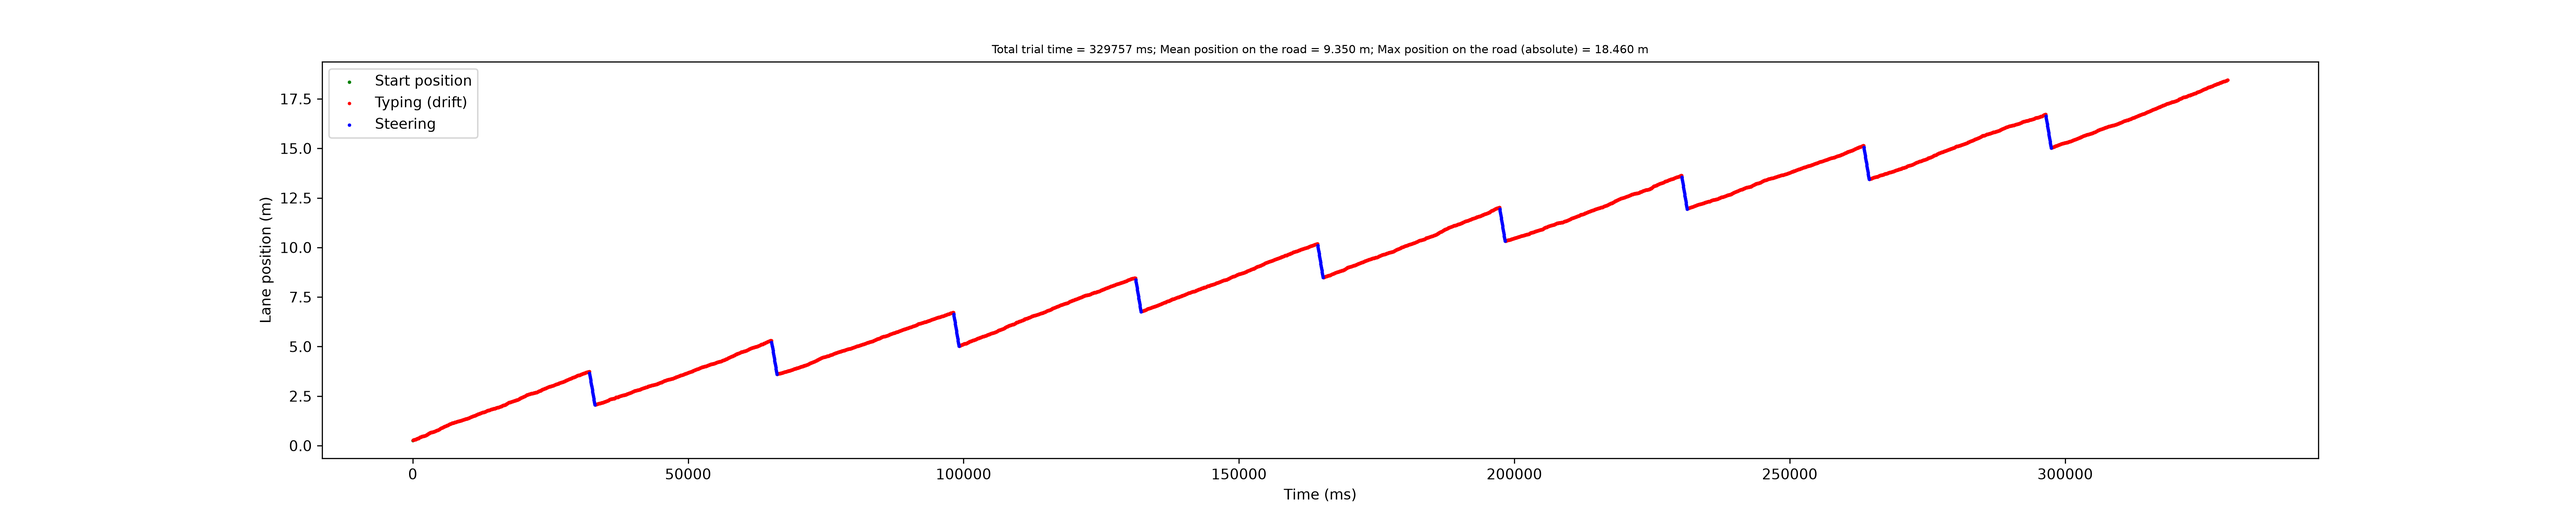
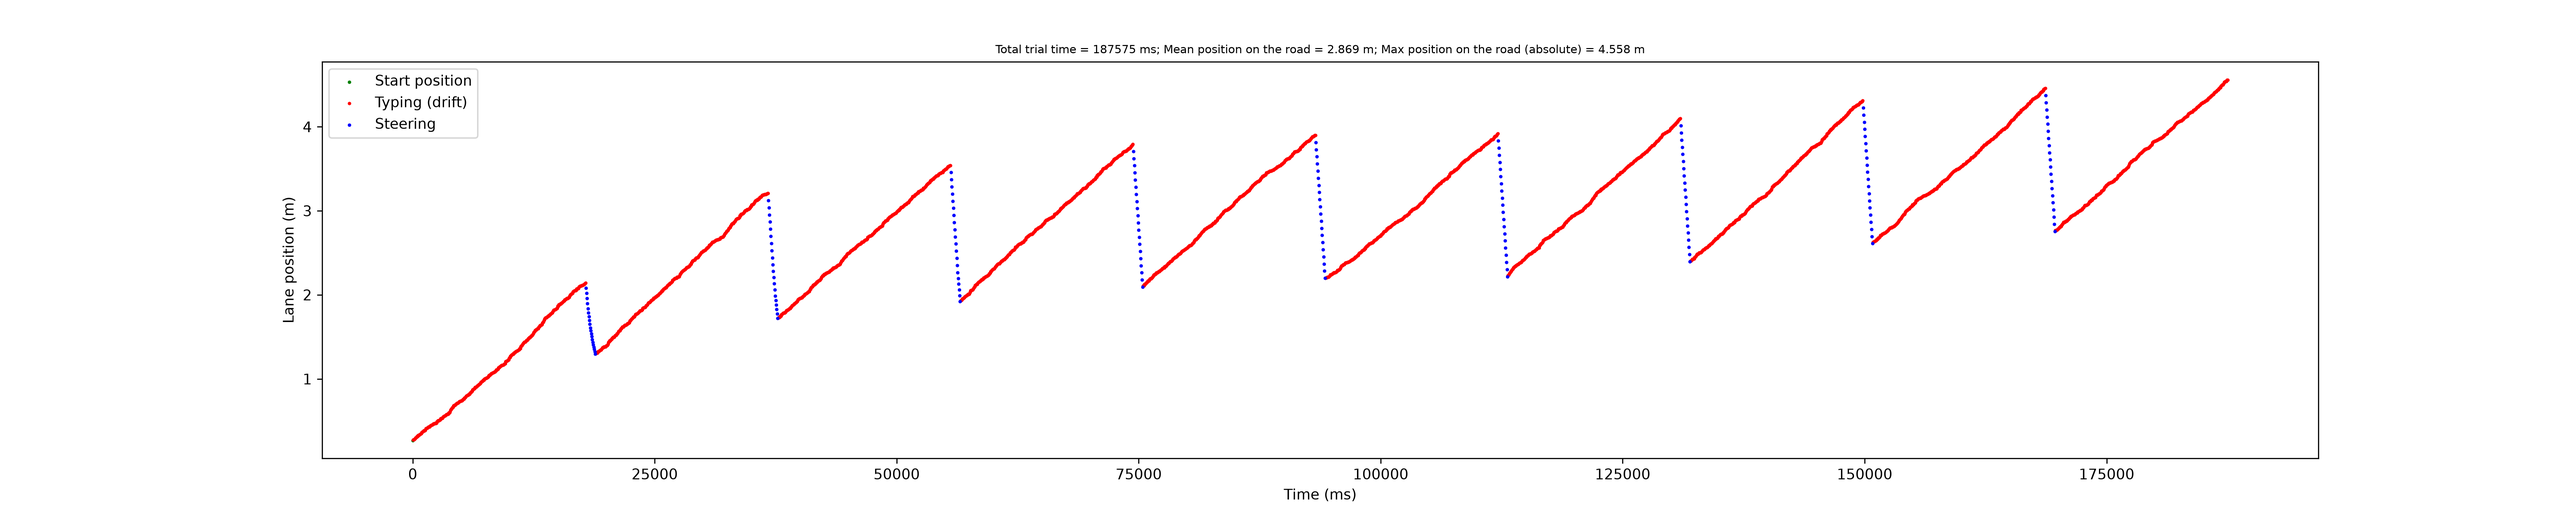
refactor(section 2): change plots name format

diff --git a/driver_model.py b/driver_model.py
@@ -170,7 +170,7 @@ def plotTrialResults(locPos, locColor, trialTime, resultDir, plotId, interleavin
     plt.ylabel("Lane position (m)")
     plt.title(f"Total trial time = {trialTime:.0f} ms; Mean position on the road = {meanPos:.3f} m; "
               f"Max position on the road (absolute) = {maxPos:.3f} m", fontsize=8)
-    plt.savefig(resultDir / f"{interleaving}_trial_{plotId}.png", dpi=300)
+    plt.savefig(resultDir / f"{interleaving}_trial_{0 if plotId < 10 else ''}{plotId}.png", dpi=300)
     
     
 ### Function to run a trial. Needs to be defined by students (section 2 and 3 of assignment)
